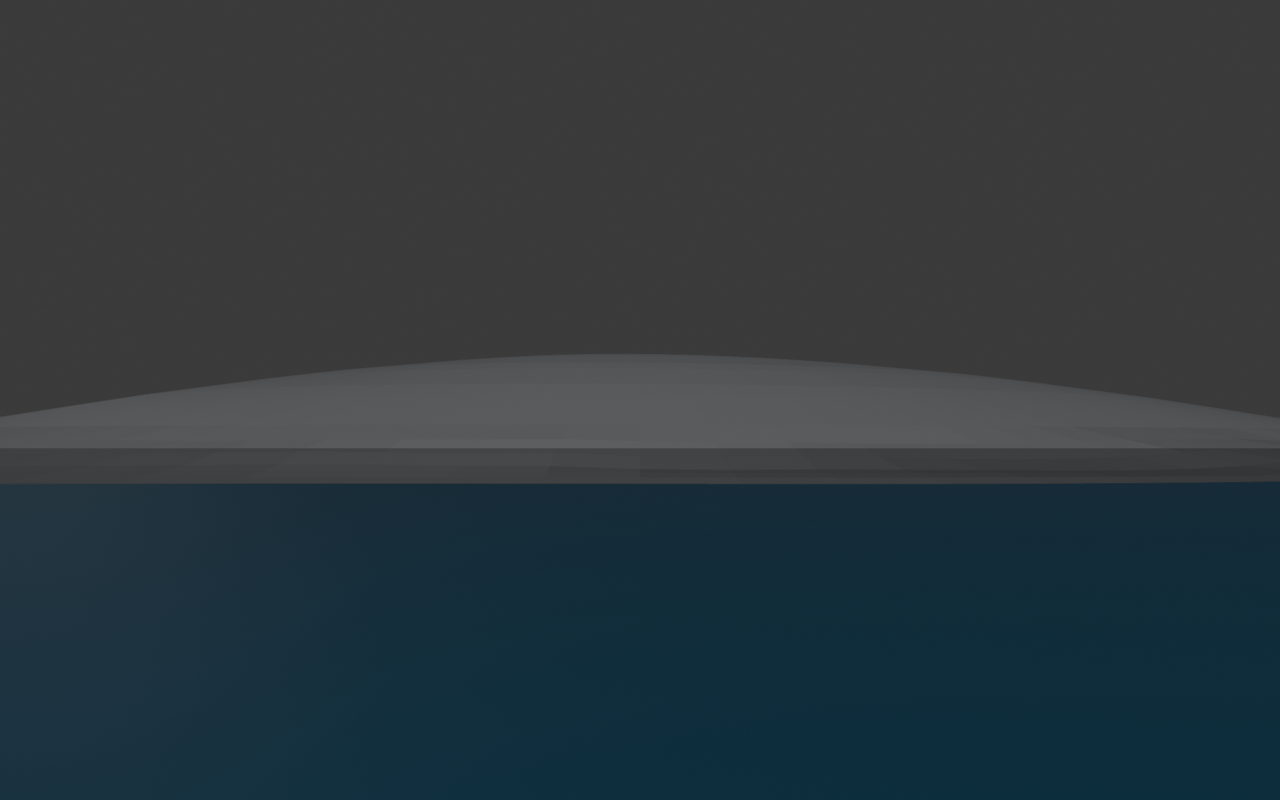
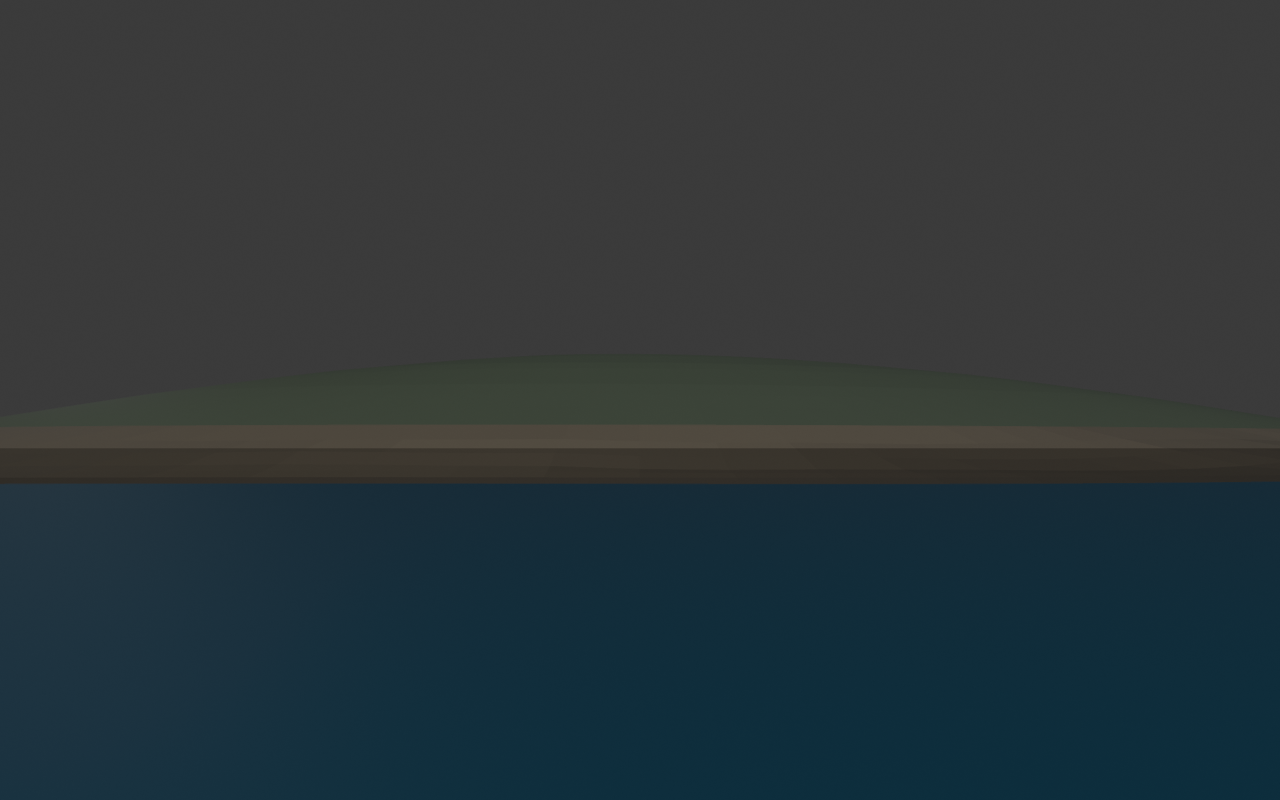
Swamp restart, step 2: the fen palette returns to the landform
The three base bands go from review-grey to the proven pre-restart fen
colors: M_Peat moss-green interior, M_Mud shore band outside GRASS_U,
M_WetMud at the waterline - set in the generator COLORS (previews) and
mirrored in WorldService.MESH_COLOR (in-game authority, Swamp_Base/2/3).
Materials renamed from the M_SwampBase* placeholders to the semantic
names. Swamp glb + 7-island pack + the four review previews regenerated;
every other island's mesh-bottom HANDOFF unchanged.

RE-IMPORT: still just island_pack.glb (this supersedes the step-1 pack).

Changed region(s): [[0.0, 0.4375, 1.0, 0.625]]

diff --git a/assets/island_gen.py b/assets/island_gen.py
@@ -1781,7 +1781,7 @@ def _interior_spot(ground, u_lo, u_hi, pad=3.0, tries=40):
 
 
 def build_swamp():
-    base = build_island_base("Swamp_Base", ["M_SwampBase", "M_SwampBase2", "M_SwampBase3"])
+    base = build_island_base("Swamp_Base", ["M_Peat", "M_Mud", "M_WetMud"])
     a = math.radians(270)  # the +Z quadrant the dock will eventually face
     shore = ring_radius(1.0, a)
     print(f"[island_gen] HANDOFF swamp: shore at +Z (Roblox rel) Z={shore:.0f}; spawn suggestion X=0 Z={shore - 30:.0f} ground Y~{height_at(0, -(shore - 30)):.1f}")
@@ -5242,12 +5242,14 @@ ISLANDS = {
             "RIM_FLAT": None,
             "PEAK_JAG": 0.0,
             "PEAK_TERMS": [],
-            # STEP 1 is deliberately GREY - the user reviews the raw shape
-            # first; materials and colour come back in a later step.
+            # STEP 2 (user): color returns. The proven fen palette from the
+            # pre-restart island - dark waterlogged moss-peat interior, a mud
+            # "beach" band outside GRASS_U, wet mud at the waterline. Keep
+            # WorldService.MESH_COLOR's Swamp_Base entries in step with these.
             "COLORS": {
-                "M_SwampBase": (0.55, 0.55, 0.55),
-                "M_SwampBase2": (0.50, 0.50, 0.50),
-                "M_SwampBase3": (0.45, 0.45, 0.45),
+                "M_Peat": (0.243, 0.322, 0.204),
+                "M_Mud": (0.396, 0.333, 0.235),
+                "M_WetMud": (0.290, 0.247, 0.184),
             },
         },
         "build": build_swamp,
